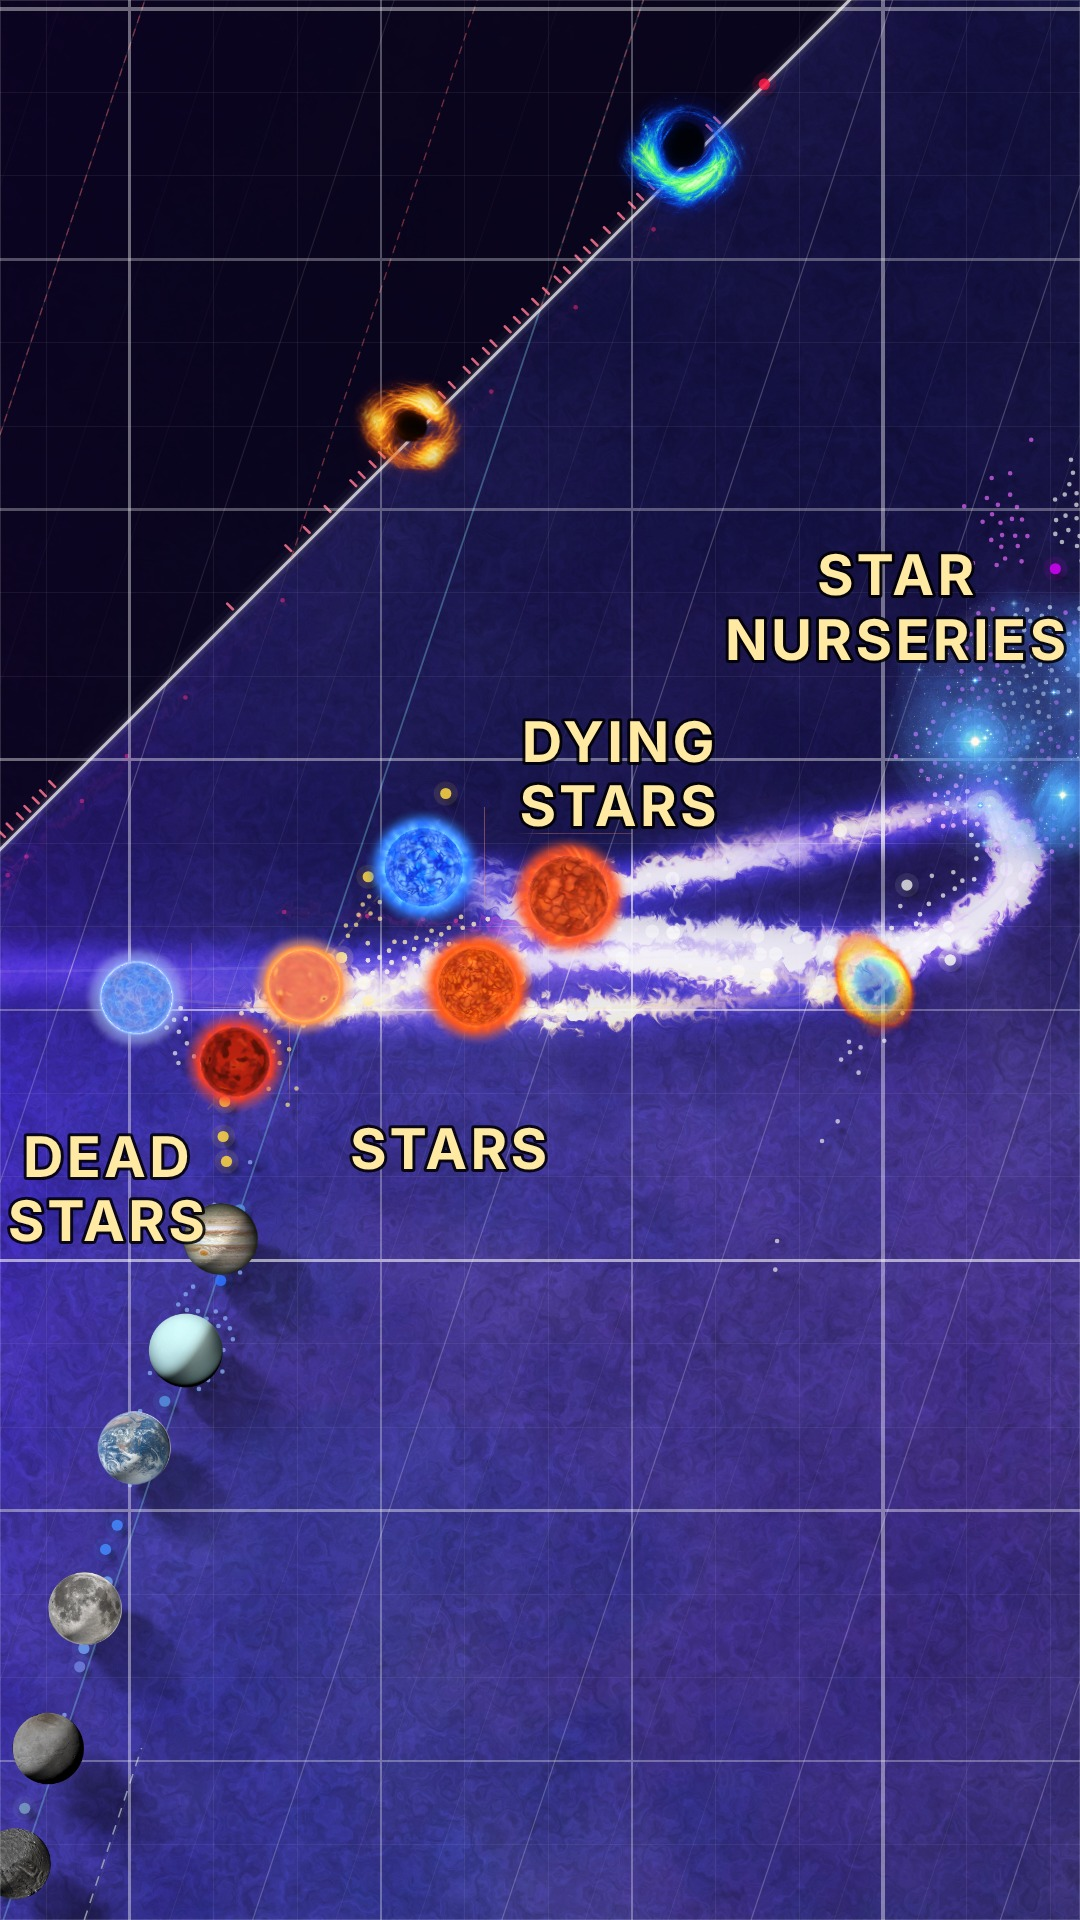
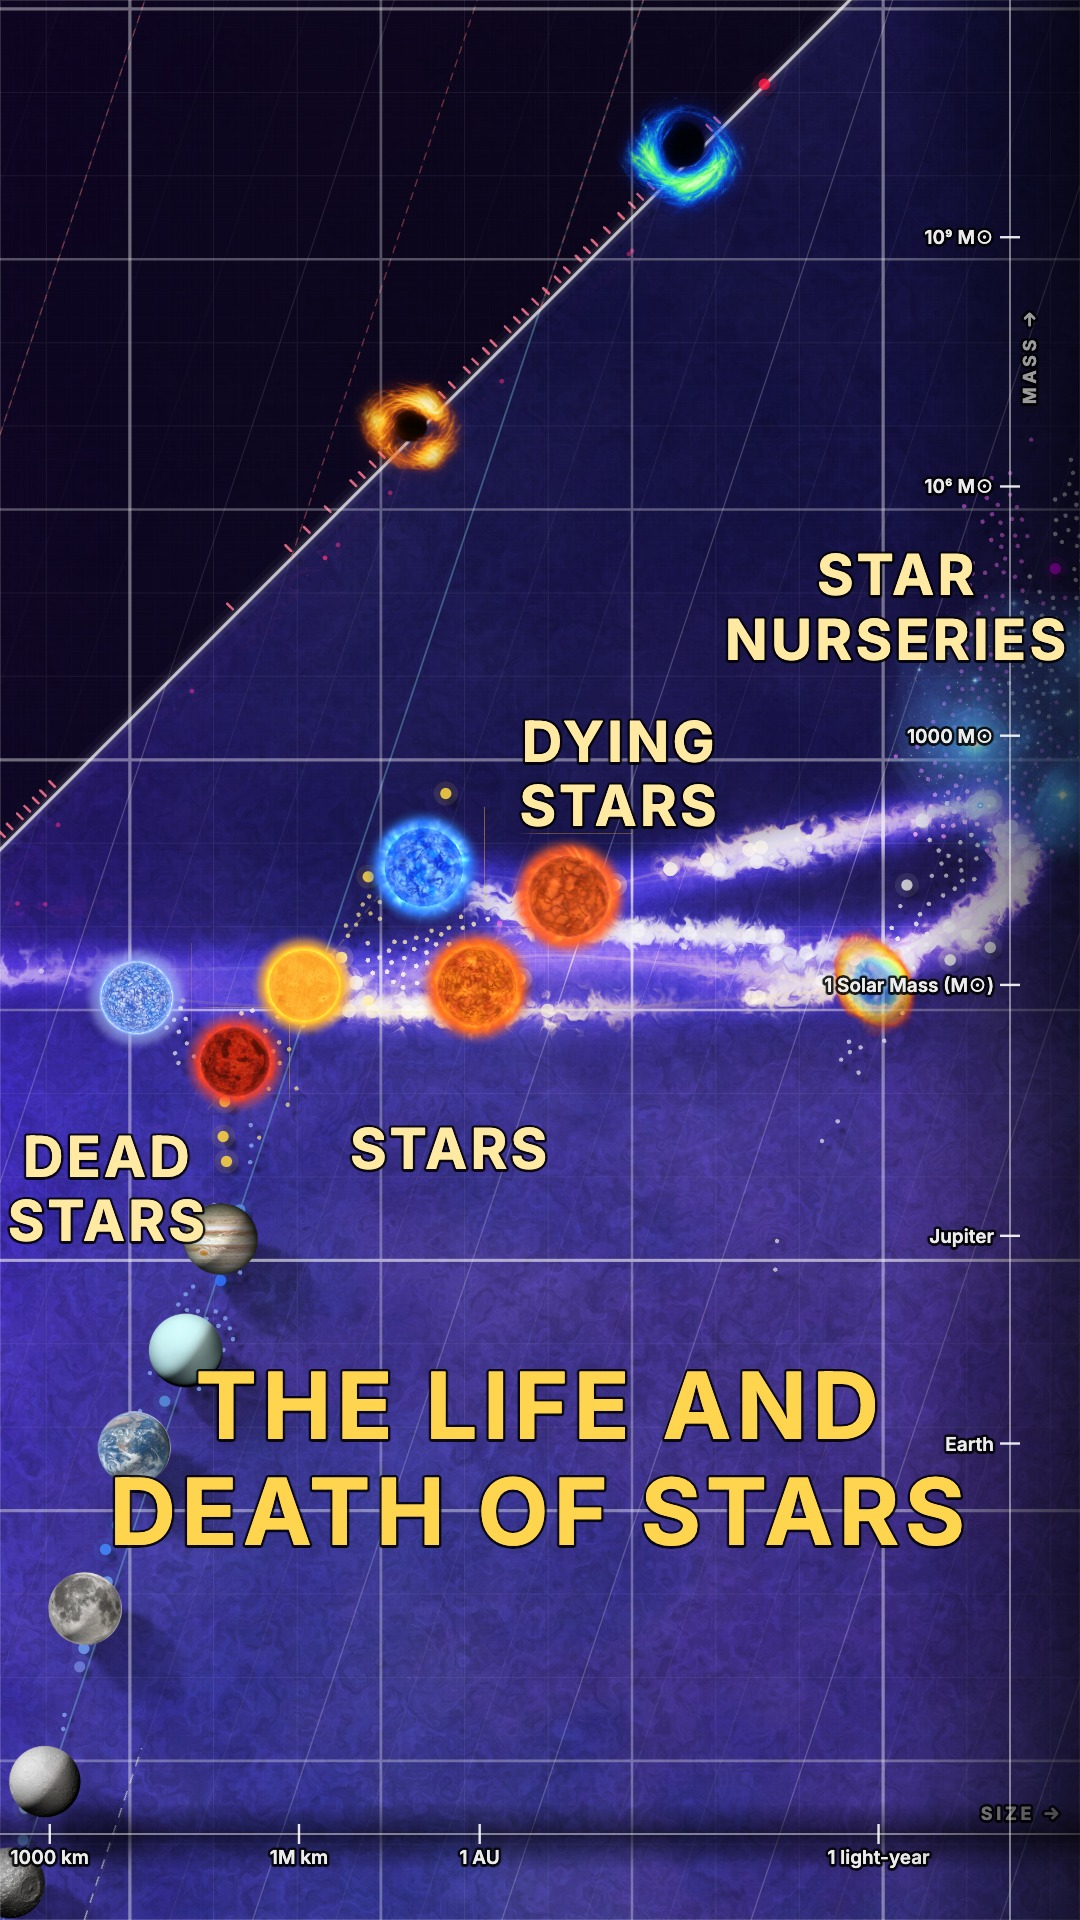
Life and Death of Stars thumbnail with its title (the author, 2026-11-25), set on the live video; four older Shorts' thumbnails re-set so YouTube makes their Shorts-shaped copy

diff --git a/src/narration-scenes/short-03-stars.js b/src/narration-scenes/short-03-stars.js
@@ -50,7 +50,9 @@ export default {
     { text: "dead\nstars", at: [8.4, 30.6], size: 28, instant: true },
     { text: "stars", at: [12.52, 31.08], size: 28, instant: true },
     { text: "dying\nstars", at: [14.56, 35.6], size: 28, instant: true },
-    { text: "star\nnurseries", at: [17.9, 37.6], size: 28, instant: true }] }] },
+    { text: "star\nnurseries", at: [17.9, 37.6], size: 28, instant: true },
+    // the title on it (the author, 2026-11-25: "it would be more impactful if it contained the title")
+    { text: "The Life and\nDeath of Stars", at: [13.6, 27.2], size: 46, color: "#ffd54f", instant: true }] }] },
 
   // background music (Kevin MacLeod, CC BY 4.0: video/music/CREDITS.md)
   backing: "Immersed",
